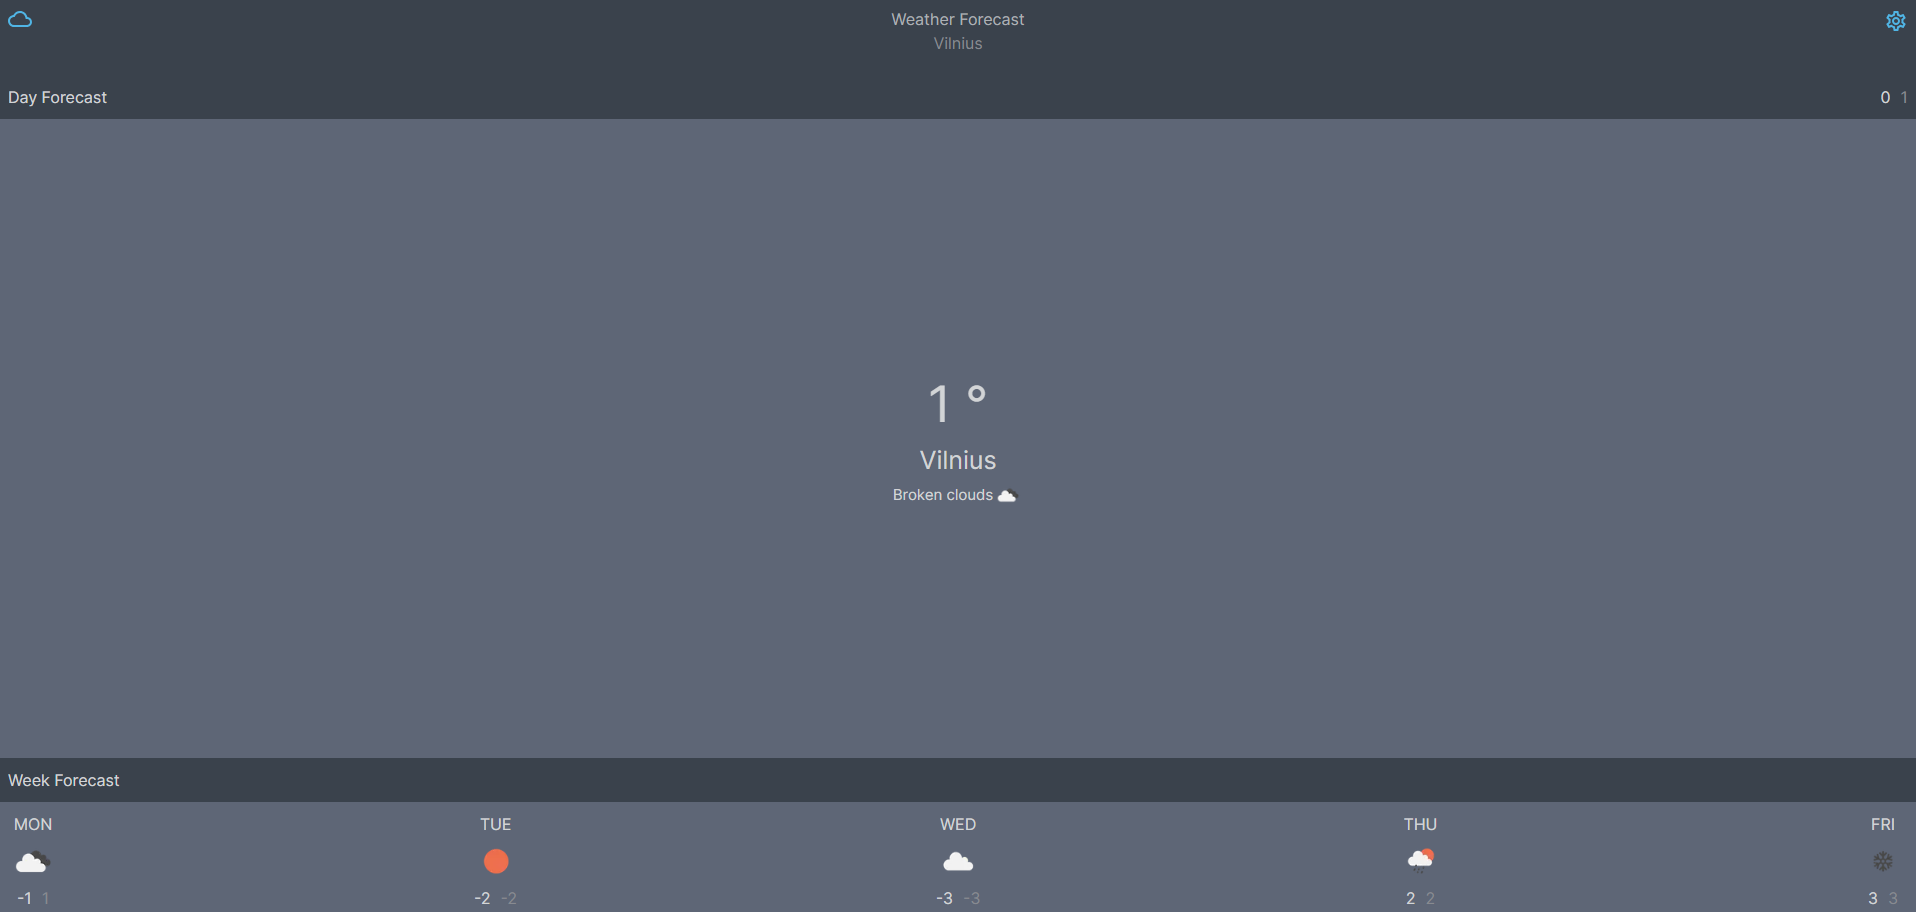
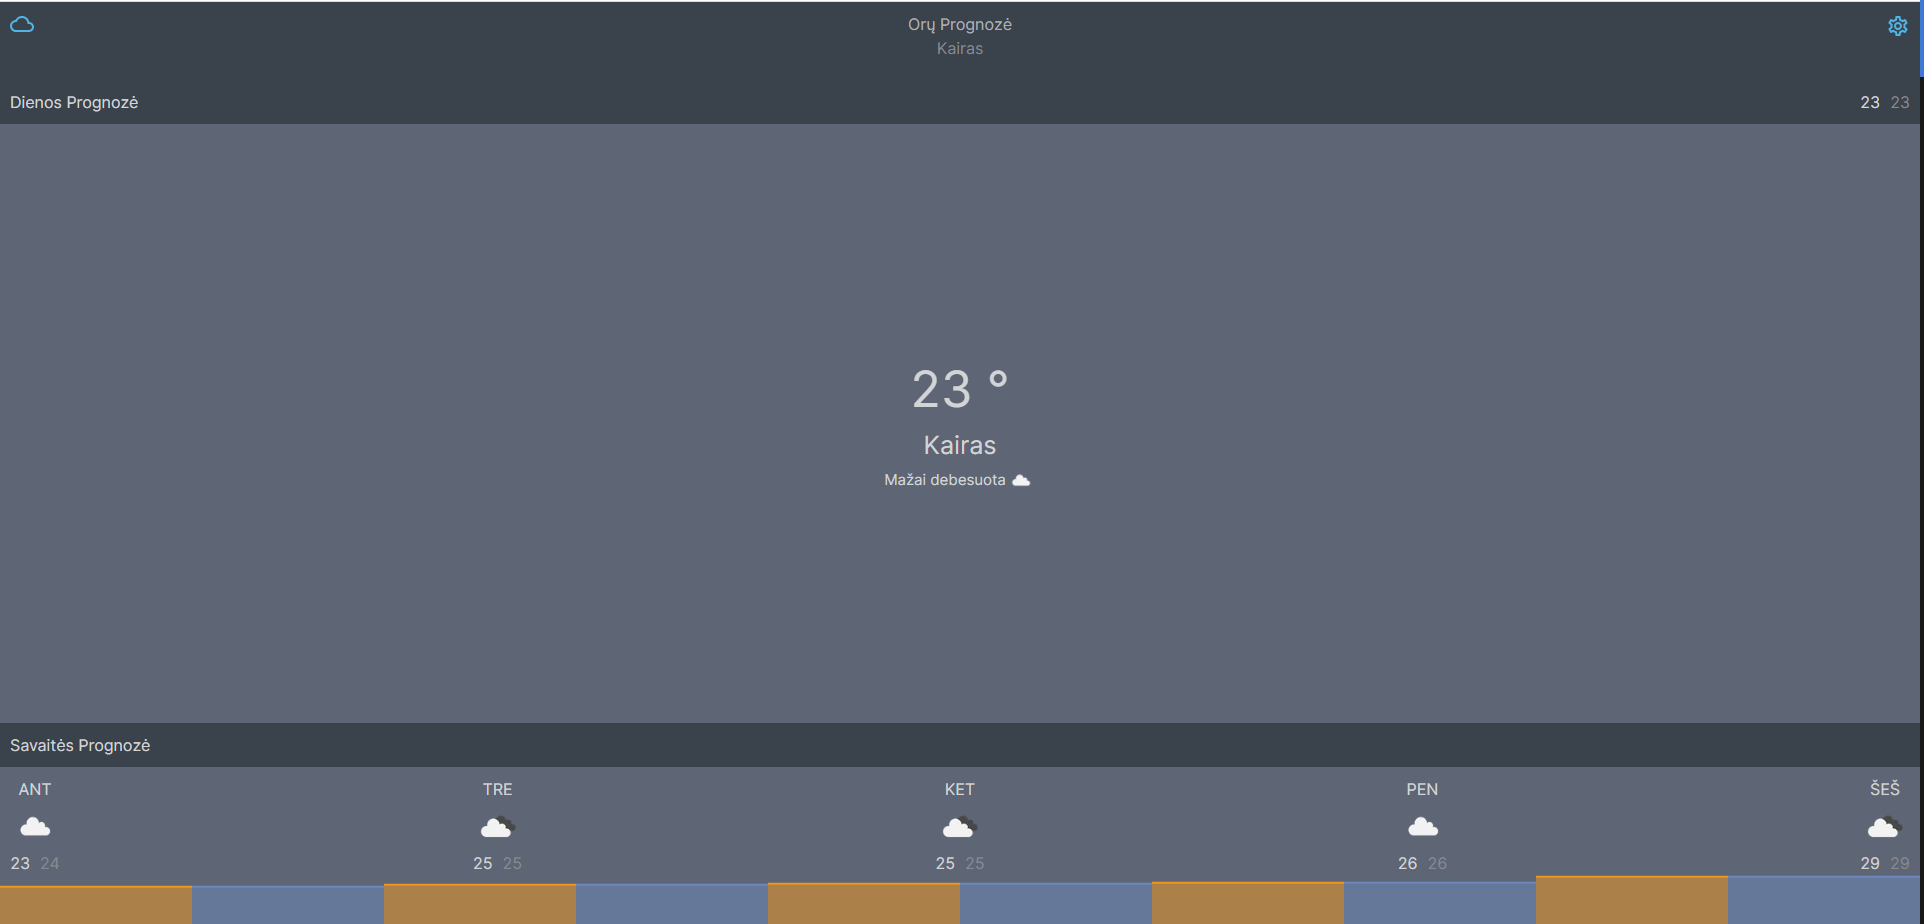
#25-weather pr review fix

diff --git a/src/app/[lng]/portfolio/projects/weather-app/components/weather-app-content/components/weather-daily/weather-daily.tsx b/src/app/[lng]/portfolio/projects/weather-app/components/weather-app-content/components/weather-daily/weather-daily.tsx
@@ -1,38 +1,43 @@
 "use client";
 import classes from "./weather-daily.module.scss";
-import reusableClasses from "@/styles/components/weather-reusable.module.scss";
 import { roundToNoDecimals } from "@/app/utils/round-values";
 import { IWeather } from "../../../interfaces";
 import Image from "next/image";
 import { getWeatherImage } from "@/app/utils/get-weather-image";
 import { capitalizeFirstLetter } from "@/app/utils/text-manipulation";
+import { useTranslation } from "@/app/i18n/client";
 
 interface IWeatherDaily {
   cityName: string;
   temperature: number;
   weather: IWeather[];
+  language: string;
 }
 
-const WeatherDaily = ({ cityName, temperature, weather }: IWeatherDaily) => {
+const WeatherDaily = ({
+  cityName,
+  temperature,
+  weather,
+  language,
+}: IWeatherDaily) => {
+  const { t } = useTranslation({ language, ns: "weather-app" });
+
   return (
     <div className={classes.container}>
       <div className={classes.textContainer}>
-        <h2 className={`${reusableClasses.secondaryTitle} ${classes.title}`}>
+        <h2 className={classes.title}>
           {roundToNoDecimals(temperature)} &deg;
         </h2>
-        <p className={`${reusableClasses.secondaryTitle} ${classes.subtitle}`}>
-          {cityName}
-        </p>
+        <p className={classes.subtitle}>{cityName}</p>
         <div className={classes.weatherDesriptionContainer}>
-          <p
-            className={`${reusableClasses.secondaryTitle} ${classes.weatherType}`}>
+          <p className={classes.weatherType}>
             {capitalizeFirstLetter(weather?.[0]?.description || "")}
           </p>
           <Image
-            alt={weather[0].main}
+            alt={weather[0]?.main || t("weather")}
             width={30}
             height={30}
-            src={getWeatherImage(weather[0].icon)}
+            src={getWeatherImage(weather[0]?.icon)}
           />
         </div>
       </div>

diff --git a/src/app/[lng]/portfolio/projects/weather-app/components/weather-app-content/components/week-forecast/week-forecast.tsx b/src/app/[lng]/portfolio/projects/weather-app/components/weather-app-content/components/week-forecast/week-forecast.tsx
@@ -2,7 +2,6 @@
 
 import { useTranslation } from "@/app/i18n/client";
 import classes from "./week-forecast.module.scss";
-import reusableClasses from "@/styles/components/weather-reusable.module.scss";
 import { I5DaysWeatherApiResponse } from "../../../interfaces";
 import dayjs from "dayjs";
 import { roundToNoDecimals } from "@/app/utils/round-values";
@@ -21,14 +20,14 @@ const WeekForecast = ({ language, weatherData }: IWeekForescast) => {
   return (
     <>
       <div className={classes.titleContainer}>
-        <h2 className={reusableClasses.secondaryTitle}>{t("weekForecast")}</h2>
+        <h2 className={classes.secondaryTitle}>{t("weekForecast")}</h2>
       </div>
       <div className={classes.listContainer}>
         {weatherData?.map((weather) => {
           return (
             <div className={classes.weatherItem} key={weather.dt}>
               <div>
-                <p className={reusableClasses.secondaryTitle}>
+                <p className={classes.secondaryTitle}>
                   {dayjs(weather.dt_txt).format("ddd").toUpperCase()}
                 </p>
                 <Image
@@ -38,10 +37,10 @@ const WeekForecast = ({ language, weatherData }: IWeekForescast) => {
                   alt={weather.weather[0].icon}
                 />
                 <div className={classes.temperatureContainer}>
-                  <p className={reusableClasses.secondaryTitle}>
+                  <p className={classes.secondaryTitle}>
                     {roundToNoDecimals(weather.main.temp_min)}
                   </p>
-                  <p className={reusableClasses.subtitle}>
+                  <p className={classes.subtitle}>
                     {roundToNoDecimals(weather.main.temp_max)}
                   </p>
                 </div>

diff --git a/src/app/[lng]/portfolio/projects/weather-app/components/weather-app-content/components/weather-header/weather-header.tsx b/src/app/[lng]/portfolio/projects/weather-app/components/weather-app-content/components/weather-header/weather-header.tsx
@@ -3,7 +3,6 @@ import CloudOutlinedIcon from "@mui/icons-material/CloudOutlined";
 import SettingsOutlinedIcon from "@mui/icons-material/SettingsOutlined";
 import { useTranslation } from "@/app/i18n/client";
 import classes from "./weather-header.module.scss";
-import reusableClasses from "@/styles/components/weather-reusable.module.scss";
 import { roundToNoDecimals } from "@/app/utils/round-values";
 import { useState } from "react";
 import CitySearch from "../city-search/city-search";
@@ -54,10 +53,10 @@ const WeatherHeader = ({
         )}
 
         <div className={classes.headerTextContainer}>
-          <p className={reusableClasses.mainTitle}>
+          <p className={classes.mainTitle}>
             {searchMenu.isOpen ? t("location") : t("weatherForecast")}
           </p>
-          <span className={reusableClasses.subtitle}>{cityName}</span>
+          <span className={classes.subtitle}>{cityName}</span>
         </div>
         {!searchMenu.isOpen ? (
           <div onClick={openSearchMenu}>
@@ -71,12 +70,12 @@ const WeatherHeader = ({
         <CitySearch language={language} />
       ) : (
         <div className={classes.flexContainer}>
-          <p className={reusableClasses.secondaryTitle}>{t("dayForecast")}</p>
+          <p className={classes.secondaryTitle}>{t("dayForecast")}</p>
           <div className={classes.highLowContainer}>
-            <span className={reusableClasses.secondaryTitle}>
+            <span className={classes.secondaryTitle}>
               {roundToNoDecimals(minTemperature)}
             </span>
-            <span className={reusableClasses.subtitle}>
+            <span className={classes.subtitle}>
               {roundToNoDecimals(maxTemperature)}
             </span>
           </div>

diff --git a/src/styles/components/weather-global-styles.scss b/src/styles/components/weather-global-styles.scss
@@ -2,8 +2,15 @@ $backgroundColor: #3a424c;
 $globalSidePadding: 10px;
 $lighterBackgroundColor: #5e6676;
 
+$mainTitleColor: #acb0b4;
+$secondaryTitleColor: #d2d4d6;
+$subtitleColor: #878a90;
+
 :export {
   backgroundColor: $backgroundColor;
   globalSidePadding: $globalSidePadding;
   lighterBackgroundColor: $lighterBackgroundColor;
+  mainTitleColor: $mainTitleColor;
+  secondaryTitleColor: $secondaryTitleColor;
+  subtitleColor: $subtitleColor;
 }

diff --git a/src/app/[lng]/portfolio/projects/weather-app/components/weather-app-content/weather-app-content.tsx b/src/app/[lng]/portfolio/projects/weather-app/components/weather-app-content/weather-app-content.tsx
@@ -137,6 +137,7 @@ const WeatherAppContent = ({ language }: { language: string }) => {
           cityName={currentWeatherResponse?.name || ""}
           temperature={currentWeatherResponse?.main.temp || 0}
           weather={currentWeatherResponse?.weather || []}
+          language={language}
         />
       </div>
       <div className={classes.autoHeight}>

diff --git a/src/app/[lng]/portfolio/projects/weather-app/components/weather-app-content/components/weather-daily/weather-daily.module.scss b/src/app/[lng]/portfolio/projects/weather-app/components/weather-app-content/components/weather-daily/weather-daily.module.scss
@@ -9,16 +9,19 @@
 }
 
 .title {
+  color: $secondaryTitleColor;
   font-size: 50px;
   text-align: center;
 }
 
 .subtitle {
+  color: $secondaryTitleColor;
   font-size: 25px;
   text-align: center;
 }
 
 .weatherType {
+  color: $secondaryTitleColor;
   font-size: 15px;
   text-align: center;
 }

diff --git a/src/app/[lng]/portfolio/projects/weather-app/components/weather-app-content/components/weather-header/weather-header.module.scss b/src/app/[lng]/portfolio/projects/weather-app/components/weather-app-content/components/weather-header/weather-header.module.scss
@@ -36,3 +36,15 @@
   width: 24px;
   height: 24px;
 }
+
+.mainTitle {
+  color: $mainTitleColor;
+}
+
+.subtitle {
+  color: $subtitleColor;
+}
+
+.secondaryTitle {
+  color: $secondaryTitleColor;
+}

diff --git a/src/app/[lng]/portfolio/projects/weather-app/components/weather-app-content/components/week-forecast/week-forecast.module.scss b/src/app/[lng]/portfolio/projects/weather-app/components/weather-app-content/components/week-forecast/week-forecast.module.scss
@@ -25,3 +25,11 @@
 .weatherVisual {
   background-color: $lighterBackgroundColor;
 }
+
+.secondaryTitle {
+  color: $secondaryTitleColor;
+}
+
+.subtitle {
+  color: $subtitleColor;
+}
